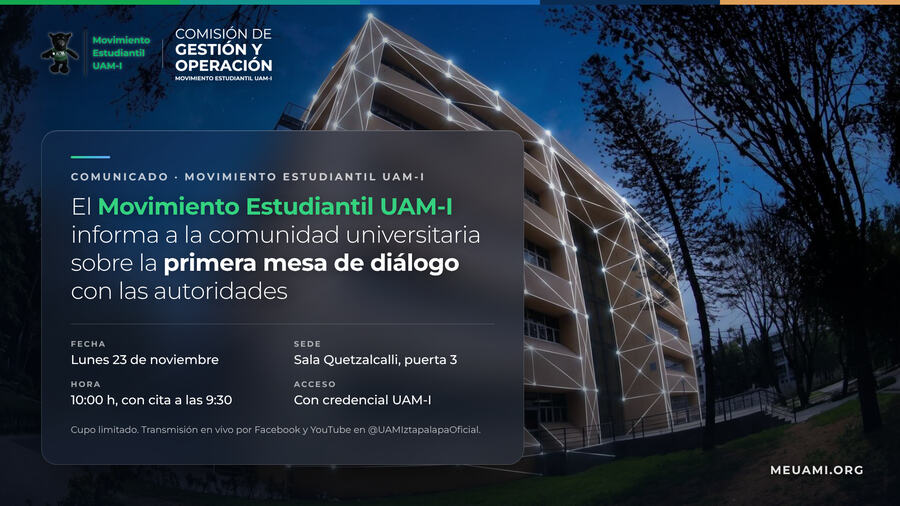
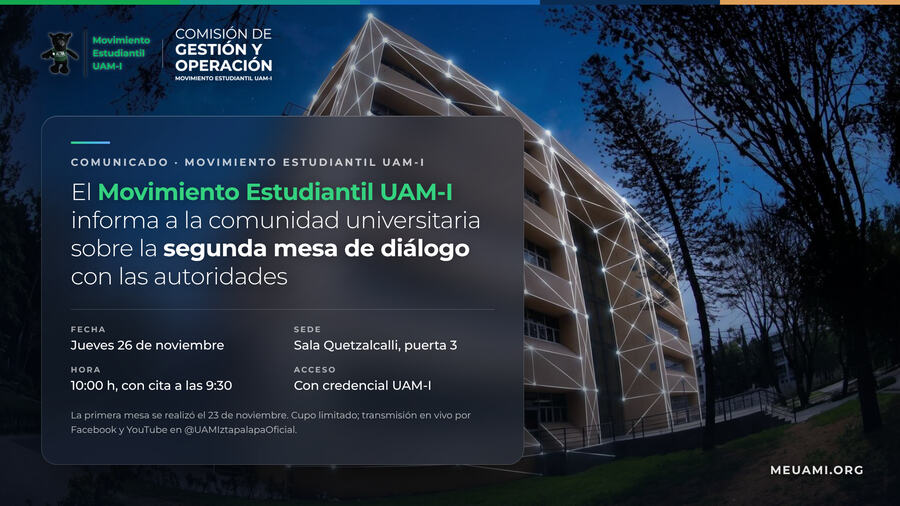
Lo ocurrido en la primera mesa, y la segunda queda convocada
Segun el comunicado de la Unidad del 23 de noviembre, la primera mesa se
realizo con la presencia del Rector General y de la Secretaria General de
la UAM, se analizaron y definieron seis propuestas sobre el punto 2.1 del
Eje 2 del pliego (agua, jabon y papel en los banos) y se acordo una
segunda mesa para el jueves 26.

Se actualiza la cronologia, el panel de estado de la unidad, la lista de
comunicados y las fuentes 17 y 18. Lo que dice el comunicado se atribuye
al comunicado, no se da por propio: el sitio informa de lo que publico la
Universidad y remite a la fuente.

El anuncio de la portada y la imagen del comunicado pasan a la segunda
mesa, con sus datos de acceso.

Ademas, cuatro pruebas se cayeron al agregar un renglon de verdad a la
cronologia, porque comparaban contra numeros escritos a mano. Eso es una
trampa: habrian fallado cada vez que se agregue una fecha, y unas pruebas
que fallan por rutina acaban ignorandose. Ahora derivan lo que esperan de
los propios datos de la pagina.

180 pruebas pasan.

Claude-Session: https://claude.ai/code/session_01RsaDox1RXWyjX2coUwYAsZ

diff --git a/index.html b/index.html
@@ -613,16 +613,16 @@ html.js-reveal .rv.vista{opacity:1;transform:none;
              sizes="(max-width: 760px) 100vw, min(1100px, 92vw)"
              width="1600" height="900" loading="lazy" decoding="async"
              alt="Comunicado del Movimiento Estudiantil UAM-I: informa a la comunidad
-                  universitaria sobre la primera mesa de dialogo con las autoridades.
-                  Lunes 23 de noviembre, Sala Quetzalcalli puerta 3, 10:00 horas con
+                  universitaria sobre la segunda mesa de dialogo con las autoridades.
+                  Jueves 26 de noviembre, Sala Quetzalcalli puerta 3, 10:00 horas con
                   cita a las 9:30, acceso con credencial UAM-I.">
       </a>
       <div class="dpie">
-        <p class="dkick">Comunicado · <time datetime="2026-11-23">23 de noviembre de 2026</time></p>
-        <h2 id="dest-tit">Primera mesa de diálogo con las autoridades de la Unidad</h2>
-        <p class="dbaja">Convocada para el lunes 23 de noviembre a las 10:00 horas en la
-        Sala Quetzalcalli, con acceso por la puerta 3 mediante credencial UAM-I y
-        transmisión por Facebook y YouTube.</p>
+        <p class="dkick">Comunicado · <time datetime="2026-11-24">24 de noviembre de 2026</time></p>
+        <h2 id="dest-tit">Segunda mesa de diálogo con las autoridades de la Unidad</h2>
+        <p class="dbaja">Jueves <time datetime="2026-11-26">26 de noviembre</time> a las 10:00
+        horas en la Sala Quetzalcalli, con cita a las 9:30 y acceso por la puerta 3 mediante
+        credencial UAM-I. La primera mesa se realizó el 23 de noviembre.</p>
         <a class="dprin" href="/assets/comunicado-destacado.jpg">Ver el comunicado <span aria-hidden="true">→</span></a>
       </div>
     </article>
@@ -992,6 +992,8 @@ html.js-reveal .rv.vista{opacity:1;transform:none;
       <li id="s14"><a href="https://izt.uam.mx/">Convocatoria oficial de la Unidad Iztapalapa a la 1ª Mesa de Diálogo, 23 de noviembre de 2026</a></li>
       <li id="s15"><a href="/assets/carta-no-represalias-cbi.pdf">Carta compromiso de no represalias de la División de Ciencias Básicas e Ingeniería</a></li>
       <li id="s16"><a href="/assets/carta-no-represalias-cbs.pdf">Carta compromiso de no represalias de la División de Ciencias Biológicas y de la Salud</a></li>
+      <li id="s17"><a href="https://www.instagram.com/uamiztapalapaoficial/" target="_blank" rel="noopener">Comunicado de la Unidad Iztapalapa sobre la Primera Mesa de Diálogo, 23 de noviembre de 2026</a></li>
+      <li id="s18"><a href="https://izt.uam.mx/" target="_blank" rel="noopener">Convocatoria oficial de la Unidad Iztapalapa a la 2ª Mesa de Diálogo, 26 de noviembre de 2026</a></li>
     </ol>
   </div>
 </section>
@@ -1048,7 +1050,7 @@ const src = ids => ' <span class="src">[' + ids.map(i => '<a href="#s'+i+'">'+i+
 // Fecha de revisión del sitio. Se cambia aquí y en ningún otro lado: antes
 // estaba escrita a mano en el encabezado y en el pie, y las dos dejaron de
 // coincidir sin que nadie lo notara.
-const REVISADO = "2026-11-22";
+const REVISADO = "2026-11-24";
 (function(){
   const p = REVISADO.split("-");
   const texto = new Date(+p[0], +p[1] - 1, +p[2])
@@ -1061,8 +1063,8 @@ const REVISADO = "2026-11-22";
 
 const unidad = {
   start:"20 de octubre", st:"Paro indefinido",
-  now:"Unidad donde inició el movimiento. Las autoridades firmaron el compromiso de no represalias y la Secretaría de Unidad convocó las mesas de diálogo para el 23 de noviembre.",
-  s:[10,12]
+  now:"Unidad donde inició el movimiento. Las autoridades y las tres divisiones firmaron el compromiso de no represalias. El 23 de noviembre se realizó la primera mesa de diálogo y la segunda quedó convocada para el 26.",
+  s:[10,17]
 };
 
 const tl = [
@@ -1080,7 +1082,8 @@ const tl = [
   {i:"2026-11-11", d:"11 nov", u:"gen", t:"La Universidad informa que el paro no implica la cancelación del trimestre ni la suspensión de las becas.", s:[7]},
   {i:"2026-11-16", d:"16 nov", u:"izt", t:"Las autoridades de la Unidad y las tres divisiones académicas firman las cartas compromiso de no represalias. La Secretaría de Unidad convoca las mesas de diálogo para el 23 de noviembre.", s:[10,11,15,16,12]},
   {i:"2026-11-18", d:"18 nov", u:"izt", t:"La Secretaría de Unidad requiere acceso a la Sala del Consejo Divisional de CSH para retirar la fotografía señalada en el punto 4.2.c del pliego.", s:[13]},
-  {i:"2026-11-23", d:"23 nov", u:"izt", t:"Primera mesa de diálogo en la Sala Quetzalcalli, con ingreso por la puerta 3. Inicio a las 10:00 horas, cita a las 9:30. Entrada con credencial UAM-I y cupo limitado; se transmite por Facebook y YouTube.", s:[14,12], n:"Primera mesa de diálogo en la Sala Quetzalcalli, con ingreso por la puerta 3. Inicio a las 10:00 horas, con cita a las 9:30. Entrada con credencial UAM-I y cupo limitado. Se transmite por Facebook y YouTube en <strong>@UAMIztapalapaOficial</strong>."},
+  {i:"2026-11-23", d:"23 nov", u:"izt", t:"Se realiza la primera mesa de diálogo, con la presencia del Rector General y de la Secretaria General de la UAM. Según el comunicado de la Unidad, se analizaron y definieron seis propuestas sobre el punto 2.1 del Eje 2 del pliego, el de agua, jabón y papel en los baños, y se acordó una segunda mesa.", s:[17]},
+  {i:"2026-11-26", d:"26 nov", u:"izt", t:"Segunda mesa de diálogo en la Sala Quetzalcalli, con ingreso por la puerta 3. Inicio a las 10:00 horas, cita a las 9:30. Entrada con credencial UAM-I y cupo limitado; se transmite por Facebook y YouTube.", s:[18,17], n:"Segunda mesa de diálogo en la Sala Quetzalcalli, con ingreso por la puerta 3. Inicio a las 10:00 horas, con cita a las 9:30. Entrada con credencial UAM-I y cupo limitado. Se transmite por Facebook y YouTube en <strong>@UAMIztapalapaOficial</strong>."},
   {i:"2026-12-04", d:"4 dic", u:"gen", t:"Fin de clases programado para el trimestre. El Colegio Académico determinará la situación del periodo.", s:[2], n:"Último día de clases programado para el trimestre. La Universidad ha señalado que el paro no cancela el periodo de manera automática: la determinación corresponde al Colegio Académico."}
 ];
 
@@ -1090,6 +1093,7 @@ const coms = [
   {d:"2 nov", u:"gen", who:"Rector General Gustavo Pacheco López", type:"Comunicado institucional", t:"Sobre los vehículos eléctricos: se venderá la flotilla, los recursos se destinarán a becas y se suspende el Acuerdo 03/2026 hasta su revisión.", s:[3,4]},
   {d:"5 nov", u:"gen", who:"Rector General Gustavo Pacheco López", type:"Boletín", t:"Reconoce deficiencias y llama al diálogo mediante asambleas, mesas de trabajo y órganos colegiados: “no se va a poder resolver todo en un solo momento”.", s:[2,4]},
   {d:"11 nov", u:"gen", who:"Universidad Autónoma Metropolitana", type:"Comunicado institucional", t:"El paro no implica la cancelación del trimestre ni la suspensión de las becas. No existe una fecha general de regreso a clases.", s:[7]},
+  {d:"23 nov", u:"izt", who:"Rectoría y Secretaría de la Unidad Iztapalapa", type:"Comunicado institucional", t:"Informan que se realizó la primera mesa de diálogo con el Movimiento Estudiantil UAM-I, con la presencia del Rector General y de la Secretaria General. Señalan que se analizaron y definieron seis propuestas sobre el punto 2.1 del Eje 2 del pliego y que se acordó una segunda mesa para el 26 de noviembre.", s:[17]},
   {d:"Vigente", u:"gen", who:"Universidad Autónoma Metropolitana", type:"Aviso en sitio oficial", t:"El paro no cancela automáticamente el trimestre; la determinación corresponde al Colegio Académico.", s:[2]}
 ];
 

diff --git a/comunicados/imagen.html b/comunicados/imagen.html
@@ -135,20 +135,20 @@ body.vertical .sitio{right:58px;bottom:auto;top:62px;font-size:22px}
 
     <p class="titular">
       El <span class="v">Movimiento Estudiantil <span class="nb">UAM-I</span></span> informa
-      a la comunidad universitaria sobre la <b>primera mesa de diálogo</b> con
+      a la comunidad universitaria sobre la <b>segunda mesa de diálogo</b> con
       las autoridades
     </p>
 
     <div class="datos">
-      <div><dt>Fecha</dt><dd>Lunes 23 de noviembre</dd></div>
+      <div><dt>Fecha</dt><dd>Jueves 26 de noviembre</dd></div>
       <div><dt>Sede</dt><dd>Sala Quetzalcalli, puerta 3</dd></div>
       <div><dt>Hora</dt><dd>10:00 h, con cita a las 9:30</dd></div>
       <div><dt>Acceso</dt><dd>Con credencial <span class="nb">UAM-I</span></dd></div>
     </div>
 
     <p class="pie-nota">
-      Cupo limitado. Transmisión en vivo por Facebook y YouTube
-      en @UAMIztapalapaOficial.
+      La primera mesa se realizó el 23 de noviembre. Cupo limitado;
+      transmisión en vivo por Facebook y YouTube en @UAMIztapalapaOficial.
     </p>
   </div>
   <!-- ==================== FIN DEL TEXTO ==================== -->
